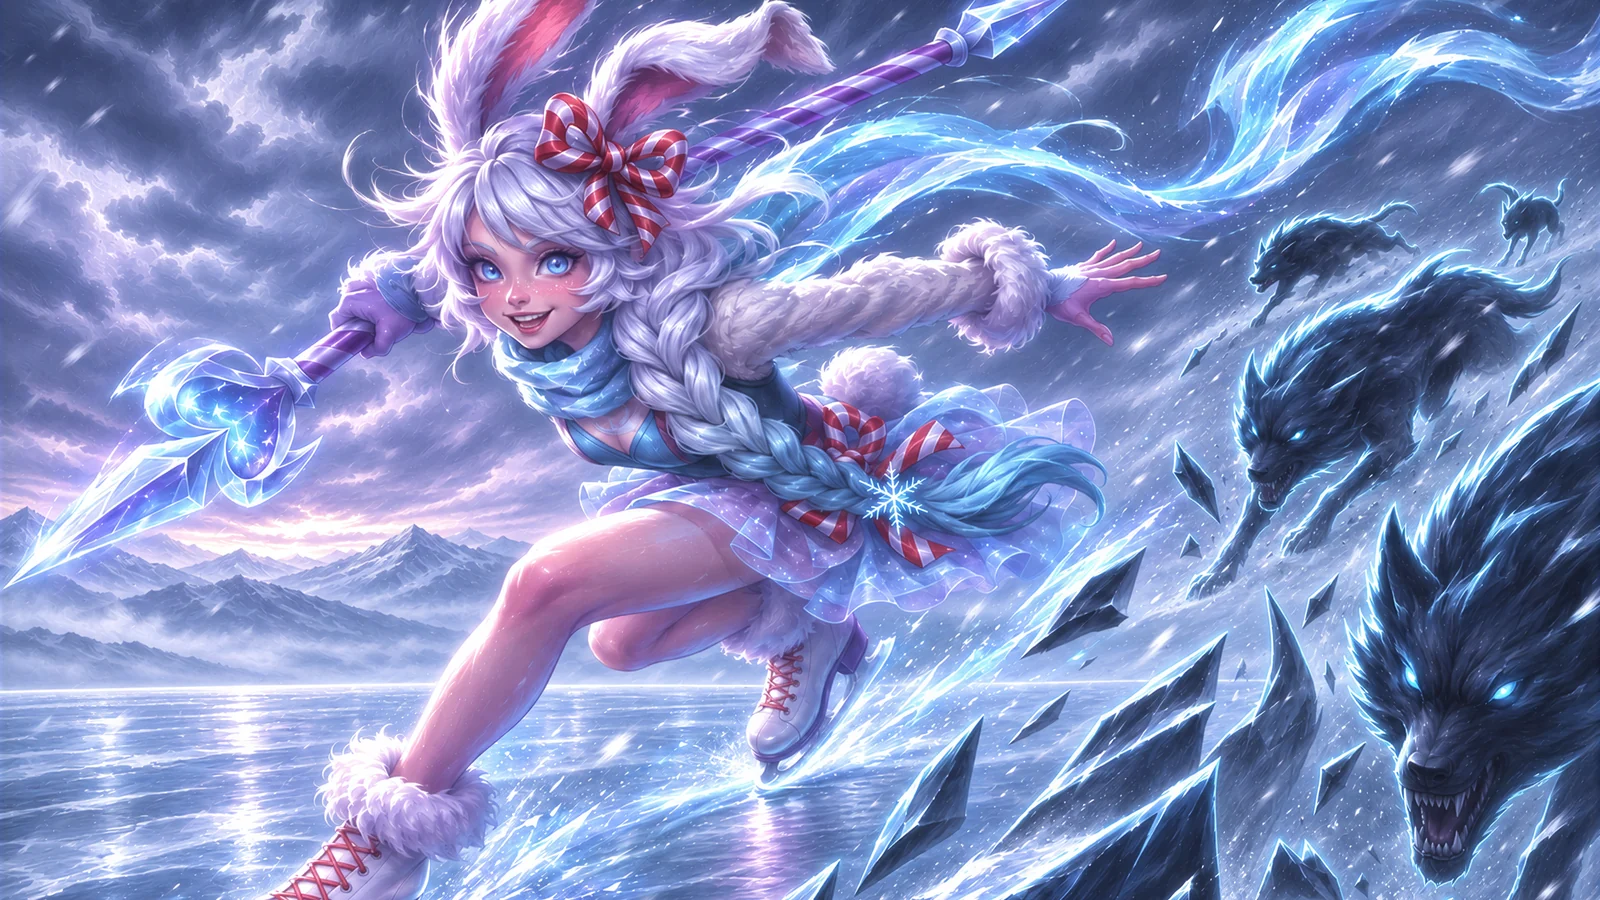
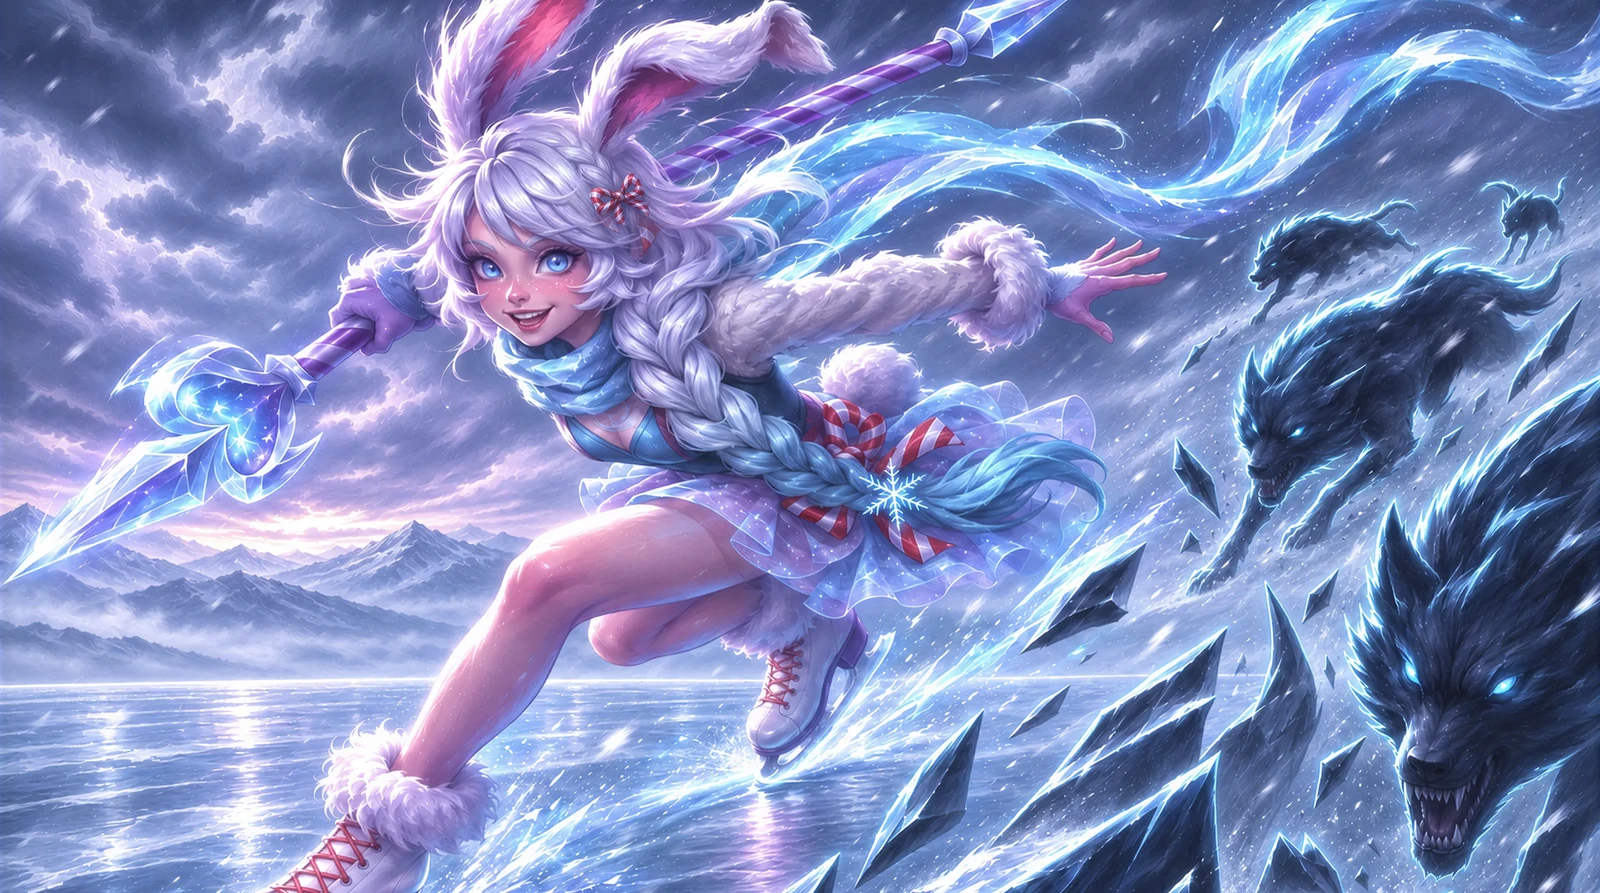
Neve: smaller temple-clip bow C (owner pick 11-15)
Claude-Session: https://claude.ai/code/session_01Fa986kEoxoUbsf7VZzVwQa

Changed region(s): [[0.3125, 0.0907, 0.4688, 0.2721]]

diff --git a/presskit.html b/presskit.html
@@ -101,19 +101,19 @@
         </div>
         <h2>Hunter art</h2>
         <div class="pk-grid">
-          <a href="assets/img/hunters/lisette-2400.webp?v=2026-11-15b14" target="_blank"><img src="assets/img/hunters/lisette-960.webp?v=2026-11-15b14" alt="Lace splash art" loading="lazy"><span class="pk-cap">Lace</span></a>
-          <a href="assets/img/hunters/breaker-2400.webp?v=2026-11-15b14" target="_blank"><img src="assets/img/hunters/breaker-960.webp?v=2026-11-15b14" alt="Albert splash art" loading="lazy"><span class="pk-cap">Albert</span></a>
-          <a href="assets/img/hunters/vex-2400.webp?v=2026-11-15b14" target="_blank"><img src="assets/img/hunters/vex-960.webp?v=2026-11-15b14" alt="Vex splash art" loading="lazy"><span class="pk-cap">Vex</span></a>
-          <a href="assets/img/hunters/kael-2400.webp?v=2026-11-15b14" target="_blank"><img src="assets/img/hunters/kael-960.webp?v=2026-11-15b14" alt="Kael splash art" loading="lazy"><span class="pk-cap">Kael</span></a>
-          <a href="assets/img/hunters/claire-2400.webp?v=2026-11-15b14" target="_blank"><img src="assets/img/hunters/claire-960.webp?v=2026-11-15b14" alt="Neve splash art" loading="lazy"><span class="pk-cap">Neve</span></a>
-          <a href="assets/img/hunters/cinder-2400.webp?v=2026-11-15b14" target="_blank"><img src="assets/img/hunters/cinder-960.webp?v=2026-11-15b14" alt="Cinder splash art" loading="lazy"><span class="pk-cap">Cinder</span></a>
-          <a href="assets/img/hunters/tarek-2400.webp?v=2026-11-15b14" target="_blank"><img src="assets/img/hunters/tarek-960.webp?v=2026-11-15b14" alt="Tenzo splash art" loading="lazy"><span class="pk-cap">Tenzo</span></a>
-          <a href="assets/img/hunters/ryzz-2400.webp?v=2026-11-15b14" target="_blank"><img src="assets/img/hunters/ryzz-960.webp?v=2026-11-15b14" alt="Sparkle splash art" loading="lazy"><span class="pk-cap">Sparkle</span></a>
-          <a href="assets/img/hunters/grimble-2400.webp?v=2026-11-15b14" target="_blank"><img src="assets/img/hunters/grimble-960.webp?v=2026-11-15b14" alt="Grimble splash art" loading="lazy"><span class="pk-cap">Grimble</span></a>
-          <a href="assets/img/hunters/pip-2400.webp?v=2026-11-15b14" target="_blank"><img src="assets/img/hunters/pip-960.webp?v=2026-11-15b14" alt="Meeko splash art" loading="lazy"><span class="pk-cap">Meeko</span></a>
-          <a href="assets/img/hunters/sable-2400.webp?v=2026-11-15b14" target="_blank"><img src="assets/img/hunters/sable-960.webp?v=2026-11-15b14" alt="Sable splash art" loading="lazy"><span class="pk-cap">Sable</span></a>
-          <a href="assets/img/hunters/gill-2400.webp?v=2026-11-15b14" target="_blank"><img src="assets/img/hunters/gill-960.webp?v=2026-11-15b14" alt="Gill splash art" loading="lazy"><span class="pk-cap">Gill</span></a>
-          <a href="assets/img/hunters/motley-2400.webp?v=2026-11-15b14" target="_blank"><img src="assets/img/hunters/motley-960.webp?v=2026-11-15b14" alt="Motley splash art" loading="lazy"><span class="pk-cap">Motley</span></a>
+          <a href="assets/img/hunters/lisette-2400.webp?v=2026-11-15b15" target="_blank"><img src="assets/img/hunters/lisette-960.webp?v=2026-11-15b15" alt="Lace splash art" loading="lazy"><span class="pk-cap">Lace</span></a>
+          <a href="assets/img/hunters/breaker-2400.webp?v=2026-11-15b15" target="_blank"><img src="assets/img/hunters/breaker-960.webp?v=2026-11-15b15" alt="Albert splash art" loading="lazy"><span class="pk-cap">Albert</span></a>
+          <a href="assets/img/hunters/vex-2400.webp?v=2026-11-15b15" target="_blank"><img src="assets/img/hunters/vex-960.webp?v=2026-11-15b15" alt="Vex splash art" loading="lazy"><span class="pk-cap">Vex</span></a>
+          <a href="assets/img/hunters/kael-2400.webp?v=2026-11-15b15" target="_blank"><img src="assets/img/hunters/kael-960.webp?v=2026-11-15b15" alt="Kael splash art" loading="lazy"><span class="pk-cap">Kael</span></a>
+          <a href="assets/img/hunters/claire-2400.webp?v=2026-11-15b15" target="_blank"><img src="assets/img/hunters/claire-960.webp?v=2026-11-15b15" alt="Neve splash art" loading="lazy"><span class="pk-cap">Neve</span></a>
+          <a href="assets/img/hunters/cinder-2400.webp?v=2026-11-15b15" target="_blank"><img src="assets/img/hunters/cinder-960.webp?v=2026-11-15b15" alt="Cinder splash art" loading="lazy"><span class="pk-cap">Cinder</span></a>
+          <a href="assets/img/hunters/tarek-2400.webp?v=2026-11-15b15" target="_blank"><img src="assets/img/hunters/tarek-960.webp?v=2026-11-15b15" alt="Tenzo splash art" loading="lazy"><span class="pk-cap">Tenzo</span></a>
+          <a href="assets/img/hunters/ryzz-2400.webp?v=2026-11-15b15" target="_blank"><img src="assets/img/hunters/ryzz-960.webp?v=2026-11-15b15" alt="Sparkle splash art" loading="lazy"><span class="pk-cap">Sparkle</span></a>
+          <a href="assets/img/hunters/grimble-2400.webp?v=2026-11-15b15" target="_blank"><img src="assets/img/hunters/grimble-960.webp?v=2026-11-15b15" alt="Grimble splash art" loading="lazy"><span class="pk-cap">Grimble</span></a>
+          <a href="assets/img/hunters/pip-2400.webp?v=2026-11-15b15" target="_blank"><img src="assets/img/hunters/pip-960.webp?v=2026-11-15b15" alt="Meeko splash art" loading="lazy"><span class="pk-cap">Meeko</span></a>
+          <a href="assets/img/hunters/sable-2400.webp?v=2026-11-15b15" target="_blank"><img src="assets/img/hunters/sable-960.webp?v=2026-11-15b15" alt="Sable splash art" loading="lazy"><span class="pk-cap">Sable</span></a>
+          <a href="assets/img/hunters/gill-2400.webp?v=2026-11-15b15" target="_blank"><img src="assets/img/hunters/gill-960.webp?v=2026-11-15b15" alt="Gill splash art" loading="lazy"><span class="pk-cap">Gill</span></a>
+          <a href="assets/img/hunters/motley-2400.webp?v=2026-11-15b15" target="_blank"><img src="assets/img/hunters/motley-960.webp?v=2026-11-15b15" alt="Motley splash art" loading="lazy"><span class="pk-cap">Motley</span></a>
         </div>
         <h2>Boki art</h2>
         <div class="pk-grid pk-grid-boki" id="pk-boki" hidden></div>
@@ -151,7 +151,7 @@
   <div class="consent-b"><button class="btn btn-glass btn-sm" type="button" data-no>Decline</button><button class="btn btn-solid btn-sm" type="button" data-yes>Accept</button></div>
 </div>
 
-<script src="assets/site.js?v=286"></script>
+<script src="assets/site.js?v=287"></script>
 <script src="assets/signup.js?v=1"></script>
 <script src="/assets/topbar.js?v=6" defer></script>
 </body>

diff --git a/index.html b/index.html
@@ -170,7 +170,7 @@
       <button class="bk-arrow prev h-arrow" type="button" id="h-prev" aria-label="Previous Hunter"><svg viewBox="0 0 24 24" aria-hidden="true"><path d="M15 5l-7 7 7 7" fill="none" stroke="currentColor" stroke-width="2.6" stroke-linecap="round" stroke-linejoin="round"/></svg></button>
       <button class="bk-arrow next h-arrow" type="button" id="h-next" aria-label="Next Hunter"><svg viewBox="0 0 24 24" aria-hidden="true"><path d="M9 5l7 7-7 7" fill="none" stroke="currentColor" stroke-width="2.6" stroke-linecap="round" stroke-linejoin="round"/></svg></button>
       <div class="bk-count h-count"><b id="h-n">01</b> / <span>13</span></div>
-      <div class="shot"><img data-zoom id="h-art" src="assets/img/hunters/vex-1600.webp?v=2026-11-15b14" srcset="assets/img/hunters/vex-960.webp?v=2026-11-15b14 960w, assets/img/hunters/vex-1600.webp?v=2026-11-15b14 1600w, assets/img/hunters/vex-2400.webp?v=2026-11-15b14 2400w" sizes="(max-width: 720px) 260vw, (max-width: 1000px) and (orientation: portrait) 150vw, (max-width: 1280px) 100vw, 1240px" alt="Vex, the Hired Gun" loading="lazy"><button class="h-expand" type="button" id="h-expand" aria-label="View full art"><svg viewBox="0 0 24 24" fill="none" stroke="currentColor" stroke-width="2.2" stroke-linecap="round" stroke-linejoin="round" aria-hidden="true"><path d="M14 4h6v6M10 20H4v-6M20 4l-6.5 6.5M4 20l6.5-6.5"/></svg></button></div>
+      <div class="shot"><img data-zoom id="h-art" src="assets/img/hunters/vex-1600.webp?v=2026-11-15b15" srcset="assets/img/hunters/vex-960.webp?v=2026-11-15b15 960w, assets/img/hunters/vex-1600.webp?v=2026-11-15b15 1600w, assets/img/hunters/vex-2400.webp?v=2026-11-15b15 2400w" sizes="(max-width: 720px) 260vw, (max-width: 1000px) and (orientation: portrait) 150vw, (max-width: 1280px) 100vw, 1240px" alt="Vex, the Hired Gun" loading="lazy"><button class="h-expand" type="button" id="h-expand" aria-label="View full art"><svg viewBox="0 0 24 24" fill="none" stroke="currentColor" stroke-width="2.2" stroke-linecap="round" stroke-linejoin="round" aria-hidden="true"><path d="M14 4h6v6M10 20H4v-6M20 4l-6.5 6.5M4 20l6.5-6.5"/></svg></button></div>
       <div class="info" aria-live="polite">
         <div class="role" id="h-role" data-role="Gunslinger">Gunslinger</div>
         <h3 id="h-name">Vex</h3>
@@ -289,7 +289,7 @@
   <symbol id="i-play" viewBox="0 0 24 24"><path d="M7 4.5v15a1 1 0 0 0 1.5.86l12.4-7.5a1 1 0 0 0 0-1.72L8.5 3.64A1 1 0 0 0 7 4.5Z"/></symbol>
 </svg>
 
-<script src="assets/site.js?v=286"></script>
+<script src="assets/site.js?v=287"></script>
 <script src="assets/signup.js?v=1"></script>
 <script src="/assets/topbar.js?v=6" defer></script>
 </body>

diff --git a/devlog.html b/devlog.html
@@ -62,7 +62,7 @@
       <article class="dl-post" id="hunter-kits">
         <time datetime="2026-11-09">November 9, 2026</time>
         <h2>Hunter kits are on the site</h2>
-        <a class="dl-img" href="index.html#hunters"><img src="assets/img/hunters/breaker-1600.webp?v=2026-11-15b14" width="1600" height="893" alt="Albert, the Barnacle Knight" loading="lazy"></a>
+        <a class="dl-img" href="index.html#hunters"><img src="assets/img/hunters/breaker-1600.webp?v=2026-11-15b15" width="1600" height="893" alt="Albert, the Barnacle Knight" loading="lazy"></a>
         <p>Tap Abilities on any Hunter to see their full kit: weapon, passive, dash, both abilities and their ultimate.</p>
         <p>The kits come straight from the game files, so they stay current as we tune each Hunter.</p>
       </article>
@@ -90,7 +90,7 @@
   <div class="consent-b"><button class="btn btn-glass btn-sm" type="button" data-no>Decline</button><button class="btn btn-solid btn-sm" type="button" data-yes>Accept</button></div>
 </div>
 
-<script src="assets/site.js?v=286"></script>
+<script src="assets/site.js?v=287"></script>
 <script src="assets/signup.js?v=1"></script>
 <script src="/assets/topbar.js?v=6" defer></script>
 </body>

diff --git a/assets/site.js b/assets/site.js
@@ -192,7 +192,7 @@ if (heroIn && !calm) {
 
 /* ---------- Hunters: pick a Mask ---------- */
 // [id, name, title, has an up-to-date in-game model, role (from the kit's role line in the game)]
-const ART_V = "2026-11-15b14"; // bump when a Hunter splash changes
+const ART_V = "2026-11-15b15"; // bump when a Hunter splash changes
 const HUNTERS = [
   ["vex", "Vex", "The Hired Gun", true, "Gunslinger"],
   ["tarek", "Tenzo", "The Stone Seer", true, "Brawler"],

diff --git a/privacy.html b/privacy.html
@@ -99,7 +99,7 @@
   <div class="consent-b"><button class="btn btn-glass btn-sm" type="button" data-no>Decline</button><button class="btn btn-solid btn-sm" type="button" data-yes>Accept</button></div>
 </div>
 
-<script src="assets/site.js?v=286"></script>
+<script src="assets/site.js?v=287"></script>
 <script src="assets/signup.js?v=1"></script>
 <script src="/assets/topbar.js?v=6" defer></script>
 </body>
